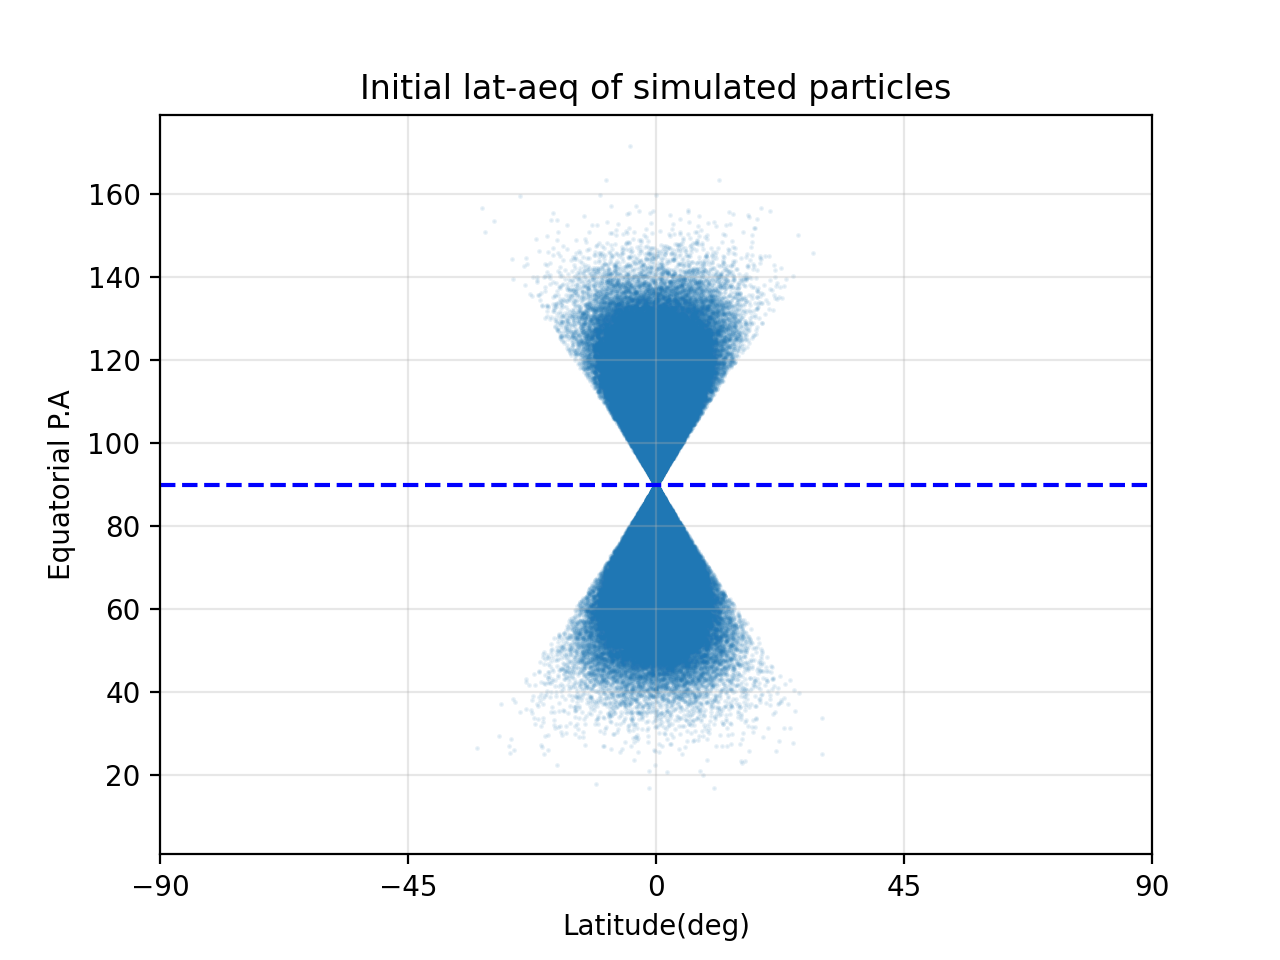
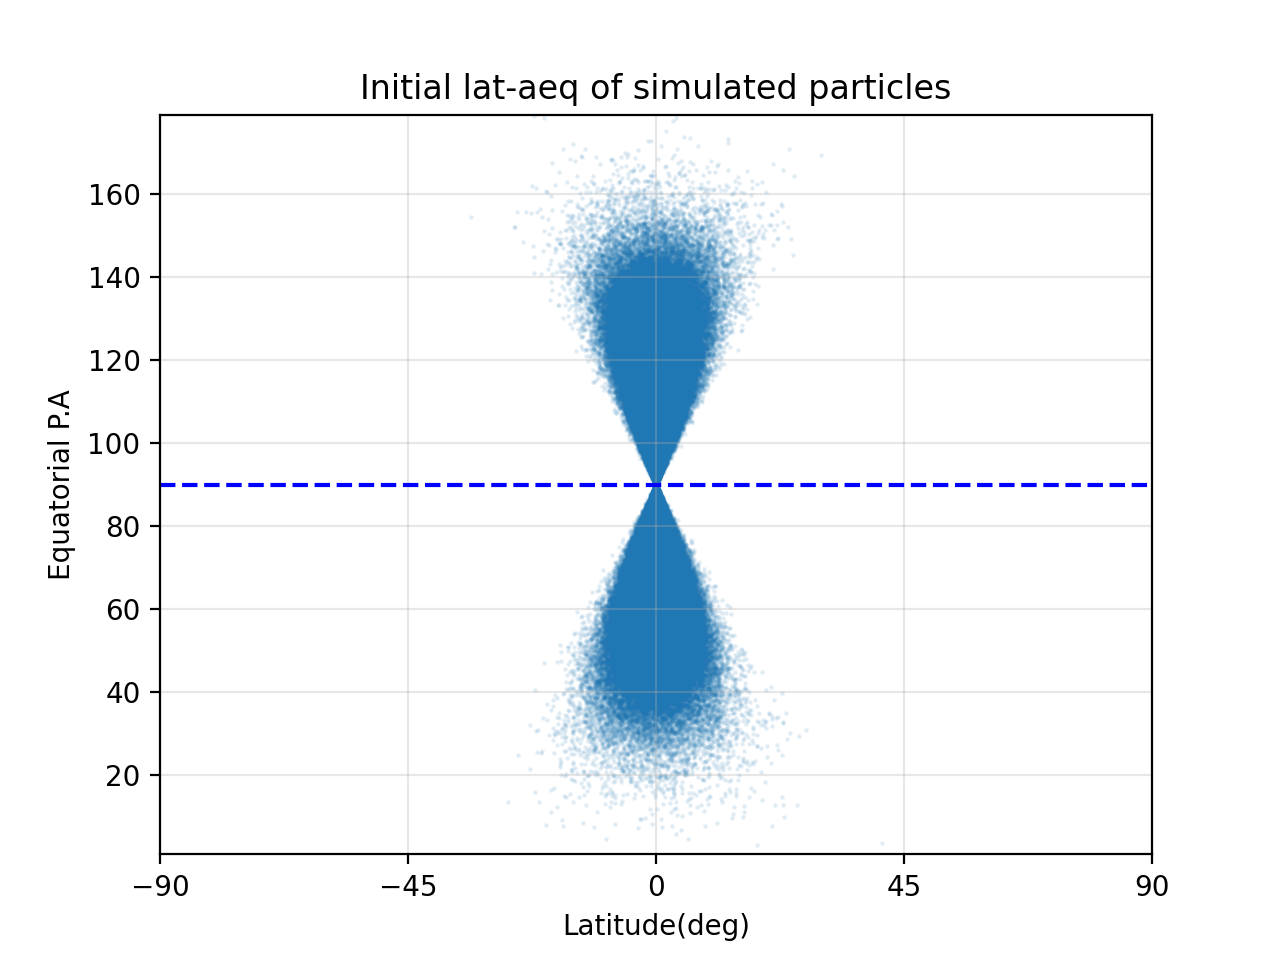
upload pngs

Changed region(s): [[0.4062, 0.5312, 0.625, 0.8438], [0.4062, 0.1562, 0.625, 0.4688], [0.5, 0.4688, 0.5312, 0.5312]]

diff --git a/Telescope/src/headers/constants.h b/Telescope/src/headers/constants.h
@@ -75,8 +75,8 @@ const real lamda_end_d    = 90;
 const real lamda_step_d	  = (lamda_end_d - lamda_start_d)/(lamda_dstr-1); 
 const real mean_aeq       = 90;  //Mean of the normal dstr
 const real mean_lamda     = 0; 
-const real stdev_aeq      = 16;  //Standard deviation of the normal dstr
-const real stdev_lamda    = 30;  
+const real stdev_aeq      = 20;  //Standard deviation of the normal dstr
+const real stdev_lamda    = 20;  
 
 //Eta dstr
 //const real eta_start_d    = eta0_deg;     //Degrees 	 
